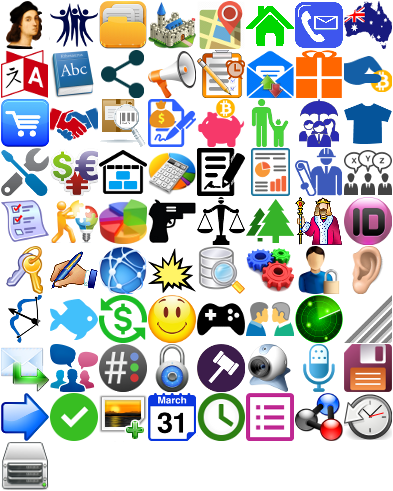
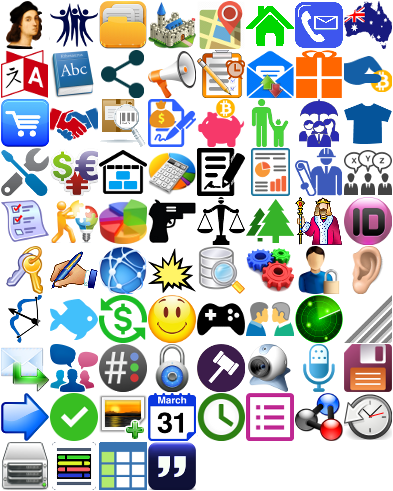
version 0.59 alpha

Changed region(s): [[0.1221, 0.8859, 0.5191, 1.0]]

diff --git a/pandora.rb b/pandora.rb
@@ -5107,13 +5107,15 @@ module PandoraCrypto
             key_entry.entry.signal_connect('changed') do |widget, event|
               if dialog_timer.nil?
                 dialog_timer = GLib::Timeout.add(1000) do
-                  panhash2 = PandoraModel.hex_to_panhash(key_entry.text)
-                  key_vec2, cipher = read_key_and_set_pass(panhash2, \
-                    passwd, key_model)
-                  nopass = ((not cipher) or (cipher == 0))
-                  PandoraGtk.set_readonly(pass_entry, nopass)
-                  pass_entry.grab_focus if not nopass
-                  dialog_timer = nil
+                  if not key_entry.destroyed?
+                    panhash2 = PandoraModel.hex_to_panhash(key_entry.text)
+                    key_vec2, cipher = read_key_and_set_pass(panhash2, \
+                      passwd, key_model)
+                    nopass = ((not cipher) or (cipher == 0))
+                    PandoraGtk.set_readonly(pass_entry, nopass)
+                    pass_entry.grab_focus if not nopass
+                    dialog_timer = nil
+                  end
                   false
                 end
               end
@@ -13142,8 +13144,8 @@ module PandoraGtk
       'LIME', 'AQUA', 'MAROON', 'OLIVE', 'PURPLE', 'TEAL', 'GRAY', 'SILVER', \
       'URL', 'A', 'HREF', 'LINK', 'ANCHOR', 'QUOTE', 'BLOCKQUOTE', 'LIST', \
       'CUT', 'SPOILER', 'CODE', 'INLINE', \
-      'INPUT', 'BUTTON', 'SPIN', 'INTEGER', 'HEX', 'REAL', 'DATETIME', 'DATE', \
-      'COORD', 'FILENAME', 'BASE64', 'PANHASH', 'BYTELIST', \
+      'INPUT', 'BUTTON', 'SPIN', 'INTEGER', 'HEX', 'REAL', 'FLOAT', 'DATE', \
+      'TIME', 'DATETIME', 'COORD', 'FILENAME', 'BASE64', 'PANHASH', 'BYTELIST', \
       'PRE', 'SOURCE', 'MONO', 'MONOSPACE', \
       'IMG', 'IMAGE', 'VIDEO', 'AUDIO', 'FILE', 'SUB', 'SUP', \
       'ABBR', 'ACRONYM', 'HR', 'H1', 'H2', 'H3', 'H4', 'H5', 'H6', \
@@ -13527,7 +13529,7 @@ module PandoraGtk
                         when 'SPAN', 'DIV',
                           tv_tag = 'mono'
                         when 'TABLE', 'TR', 'TD', 'TH'
-                          tv_tag = nil
+                          tv_tag = 'mono'
                         when 'SMALL', 'LITTLE', 'X-SMALL', 'XX-SMALL'
                           tv_tag = 'small'
                         when 'LARGE', 'BIG', 'X-LARGE', 'XX-LARGE'
@@ -13616,8 +13618,8 @@ module PandoraGtk
                                   #wid.show_all
                                 end
                               when 'INPUT', 'BUTTON', 'SPIN', 'INTEGER', 'HEX', \
-                              'REAL', 'DATETIME', 'DATE', 'COORD', 'FILENAME', \
-                              'BASE64', 'PANHASH', 'BYTELIST'
+                              'REAL', 'FLOAT', 'DATE', 'TIME', 'DATETIME', 'COORD', \
+                              'FILENAME', 'BASE64', 'PANHASH', 'BYTELIST'
                                 param = get_tag_param(params)
                                 widget = nil
                                 if comu=='INPUT'
@@ -13630,9 +13632,9 @@ module PandoraGtk
                                   widget = IntegerEntry.new
                                 elsif comu=='HEX'
                                   widget = HexEntry.new
-                                elsif comu=='REAL'
+                                elsif (comu=='REAL') or (comu=='FLOAT')
                                   widget = FloatEntry.new
-                                elsif comu=='DATETIME'
+                                elsif (comu=='TIME') or (comu=='DATETIME')
                                   #DateTimeEntry.new
                                   widget = DateTimeBox.new
                                 elsif comu=='DATE'
@@ -14536,6 +14538,7 @@ module PandoraGtk
       if stock.is_a? String
         mi = Gtk::MenuItem.new(stock)
       else
+        $window.register_stock(stock)
         mi = Gtk::ImageMenuItem.new(stock)
         mi.label = _(text) if text
       end
@@ -14816,6 +14819,18 @@ module PandoraGtk
       add_menu_item(btn, menu, Gtk::Stock::UNDERLINE) do
         set_tag('d')
       end
+      add_menu_item(btn, menu, Gtk::Stock::INDEX, 'Sub') do
+        set_tag('sub')
+      end
+      add_menu_item(btn, menu, Gtk::Stock::INDEX, 'Sup') do
+        set_tag('sup')
+      end
+      add_menu_item(btn, menu, Gtk::Stock::INDEX, 'Small') do
+        set_tag('small')
+      end
+      add_menu_item(btn, menu, Gtk::Stock::INDEX, 'Large') do
+        set_tag('large')
+      end
       menu.show_all
 
       @selected_color = 'red'
@@ -14916,70 +14931,61 @@ module PandoraGtk
       end
       menu.show_all
 
-      btn = PandoraGtk.add_tool_btn(toolbar, Gtk::Stock::INDEX, 'mono', 0) do |*args|
-        set_tag('mono')
+      btn = PandoraGtk.add_tool_btn(toolbar, :code, 'Code', 0) do |*args|
+        set_tag('code', 'ruby')
       end
       menu = Gtk::Menu.new
       btn.menu = menu
-      add_menu_item(btn, menu, Gtk::Stock::INDEX, 'quote') do
+      add_menu_item(btn, menu, :quote, 'Quote') do
         set_tag('quote')
       end
-      add_menu_item(btn, menu, Gtk::Stock::INDEX, 'cut') do
-        set_tag('cut')
+      add_menu_item(btn, menu, Gtk::Stock::INDEX, 'Cut') do
+        set_tag('cut', _('Expand'))
       end
-      add_menu_item(btn, menu, Gtk::Stock::INDEX, 'hr') do
+      add_menu_item(btn, menu, Gtk::Stock::INDEX, 'HR') do
         set_tag('hr/', '150')
       end
-      add_menu_item(btn, menu, Gtk::Stock::INDEX, 'sub') do
-        set_tag('sub')
+      add_menu_item(btn, menu, :table, 'Table') do
+        set_tag('table')
       end
-      add_menu_item(btn, menu, Gtk::Stock::INDEX, 'sup') do
-        set_tag('sup')
-      end
-      add_menu_item(btn, menu, Gtk::Stock::INDEX, 'small') do
-        set_tag('small')
-      end
-      add_menu_item(btn, menu, Gtk::Stock::INDEX, 'large') do
-        set_tag('large')
-      end
-
-      add_menu_item(btn, menu, Gtk::Stock::INDEX, 'input') do
+      menu.append(Gtk::SeparatorMenuItem.new)
+      add_menu_item(btn, menu, Gtk::Stock::INDEX, 'Input') do
         set_tag('input/', 'text')
       end
-      add_menu_item(btn, menu, Gtk::Stock::INDEX, 'spin') do
+      add_menu_item(btn, menu, Gtk::Stock::INDEX, 'Spin') do
         set_tag('spin/', '5')
       end
-      add_menu_item(btn, menu, Gtk::Stock::INDEX, 'integer') do
+      add_menu_item(btn, menu, Gtk::Stock::INDEX, 'Integer') do
         set_tag('integer/', '0')
       end
-      add_menu_item(btn, menu, Gtk::Stock::INDEX, 'hex') do
+      add_menu_item(btn, menu, Gtk::Stock::INDEX, 'Hex') do
         set_tag('hex/', '0')
       end
-      add_menu_item(btn, menu, Gtk::Stock::INDEX, 'real') do
+      add_menu_item(btn, menu, Gtk::Stock::INDEX, 'Real') do
         set_tag('real/', '0')
       end
-      add_menu_item(btn, menu, Gtk::Stock::INDEX, 'date') do
+      add_menu_item(btn, menu, :date, 'Date') do
         set_tag('date/', '0')
       end
-      add_menu_item(btn, menu, Gtk::Stock::INDEX, 'datetime') do
-        set_tag('datetime/', '0')
+      add_menu_item(btn, menu, :time, 'Time') do
+        set_tag('time/', '0')
       end
-      add_menu_item(btn, menu, Gtk::Stock::INDEX, 'coord') do
+      add_menu_item(btn, menu, Gtk::Stock::INDEX, 'Coord') do
         set_tag('coord/', '0')
       end
-      add_menu_item(btn, menu, Gtk::Stock::INDEX, 'filename') do
+      add_menu_item(btn, menu, Gtk::Stock::OPEN, 'Filename') do
         set_tag('filename/', '0')
       end
-      add_menu_item(btn, menu, Gtk::Stock::INDEX, 'base64') do
+      add_menu_item(btn, menu, Gtk::Stock::INDEX, 'Base64') do
         set_tag('base64/', '0')
       end
-      add_menu_item(btn, menu, Gtk::Stock::INDEX, 'panhash') do
+      add_menu_item(btn, menu, :panhash, 'Panhash') do
         set_tag('panhash/', '0')
       end
-      add_menu_item(btn, menu, Gtk::Stock::INDEX, 'bytelist') do
+      add_menu_item(btn, menu, :list, 'Bytelist') do
         set_tag('bytelist/', '0')
       end
-      add_menu_item(btn, menu, Gtk::Stock::INDEX, 'button') do
+      add_menu_item(btn, menu, Gtk::Stock::INDEX, 'Button') do
         set_tag('button/', 'Order')
       end
       menu.show_all
